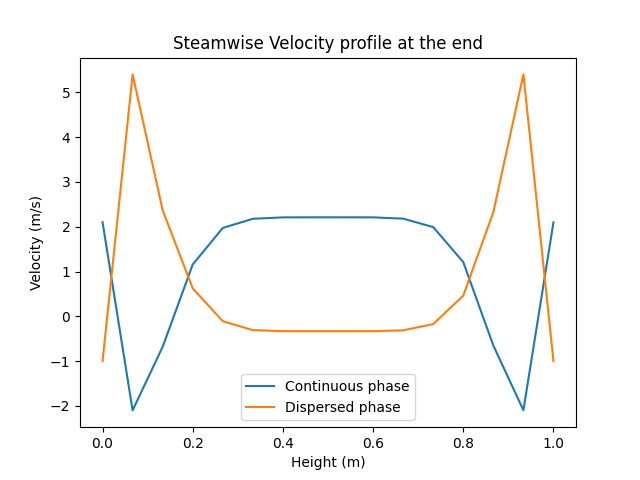
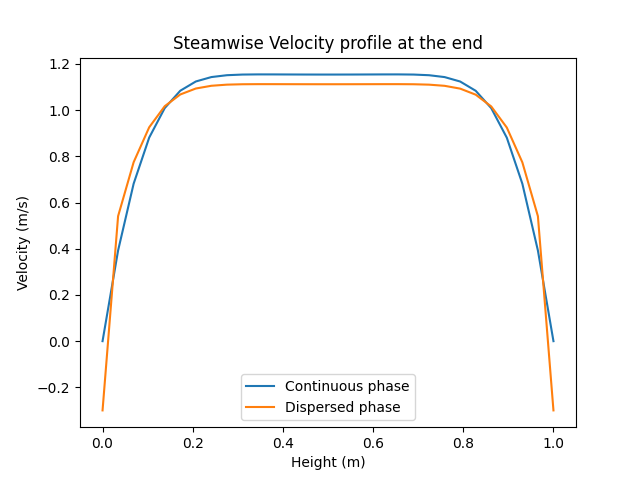
fixed a miscalculation

diff --git a/Channel Flow with time multiphase.py b/Channel Flow with time multiphase.py
@@ -5,7 +5,7 @@ from multiphase_functions import *
 import imageio
 
 Aspect = 10  # Aspect ratio between y and x direction
-Ny = 15  # points in y direction
+Ny = 30  # points in y direction
 Nx = (Ny - 1) * Aspect + 1  # points in x direction
 nu_mol = 1e-3  # kinematic viscosity
 mu_mol = nu_mol * 1e3
@@ -99,7 +99,7 @@ for iter in tqdm(range(N)):
         # interfacial_stress_x = get_F_i_new(nu_mol, D_p, rho_p, a_2, U2_U1_avg)
 
         # print(f"interfacial stress in x {interfacial_stress_x}")
-        u_star[1:-1, 1:-1] = u_prev[1:-1, 1:-1] + dt * (-p_grad_x + diff_x - conv_x - interfacial_stress_x)
+        u_star[1:-1, 1:-1] = u_prev[1:-1, 1:-1] + dt * (-p_grad_x + diff_x - conv_x + interfacial_stress_x)
     else:
         u_star[1:-1, 1:-1] = u_prev[1:-1, 1:-1] + dt * (-p_grad_x + diff_x - conv_x)
 
@@ -133,7 +133,7 @@ for iter in tqdm(range(N)):
         interfacial_stress_y = get_F_i(nu_mol, D_p, rho_p, a_2, U2mean_y, U1mean_y)
         # print(f"interfacial stress in y {interfacial_stress_y}")
 
-        v_star[1:-1, 1:-1] = v_prev[1:-1, 1:-1] + dt * (-p_grad_v + diff_v - conv_v - interfacial_stress_y)
+        v_star[1:-1, 1:-1] = v_prev[1:-1, 1:-1] + dt * (-p_grad_v + diff_v - conv_v + interfacial_stress_y)
     else:
         v_star[1:-1, 1:-1] = v_prev[1:-1, 1:-1] + dt * (-p_grad_v + diff_v - conv_v)
 
@@ -157,7 +157,7 @@ for iter in tqdm(range(N)):
         kinetic_stresses = a_2 * rho_p * U_2i_U_2j
         kinetic_stresses[np.isnan(kinetic_stresses)] = 0
         # print(f"kinetic stress x: {kinetic_stresses}")
-        u_prev_2[1:-1, 1:-1] = u_prev_2[1:-1, 1:-1] + dt * (kinetic_stresses[1:-1, 1:-1] + interfacial_stress_x)
+        u_prev_2[1:-1, 1:-1] = u_prev_2[1:-1, 1:-1] + dt * (kinetic_stresses[1:-1, 1:-1] - interfacial_stress_x)
         # u_prev_2[1:-1, 1:-1] = u_prev_2[1:-1, 1:-1] + dt * (interfacial_stress_x)
 
 
@@ -166,7 +166,7 @@ for iter in tqdm(range(N)):
         kinetic_stresses = a_2 * rho_p * U_2i_U_2j
         # print(f"kinetic stress y: {kinetic_stresses}")
         kinetic_stresses[np.isnan(kinetic_stresses)] = 0
-        v_prev_2[1:-1, 1:-1] = v_prev_2[1:-1, 1:-1] + dt * (kinetic_stresses[1:-1, 1:-1] + interfacial_stress_y)
+        v_prev_2[1:-1, 1:-1] = v_prev_2[1:-1, 1:-1] + dt * (kinetic_stresses[1:-1, 1:-1] - interfacial_stress_y)
         # print(f"u_2 velocity mean: {np.mean(u_star_2[1:-1, 1:-1] )}")
     Pp_rhs = (u_star[1:-1, 1:] - u_star[1:-1, :-1] + v_star[1:, 1:-1] - v_star[:-1, 1:-1]) / dx / dt
 
@@ -318,21 +318,24 @@ imageio.mimsave(f'gifs/multiphase_continuous.gif',
                 duration=0.03
                 )
 
-height = np.linspace(0.0, H, Ny+1)
+height = np.linspace(0.0, H, Ny)
 plt.close()
 plt.figure()
-plt.plot(height, u_prev[:,-3], label='Continuous phase')
+u_center = (u_next[1:, :] + u_next[:-1, :]) / 2
+plt.plot(height, u_center[:,-3], label='Continuous phase')
 plt.title("Steamwise Velocity profile at the end")
 if start_turb < N:
     imageio.mimsave(f'gifs/multiphase_dispersed.gif',
                     frames_2,
                     duration=0.03
                     )
-    plt.plot(height, u_prev_2[:,-3], label='Dispersed phase')
+    u_center = (u_prev_2[1:, :] + u_prev_2[:-1, :]) / 2
+    plt.plot(height, u_center[:,-3], label='Dispersed phase')
 
 plt.ylabel("Velocity (m/s)")
 plt.xlabel("Height (m)")
 plt.legend()
+plt.grid()
 plt.savefig(f"plots/velocity.png")
 
 print("gif saved")
